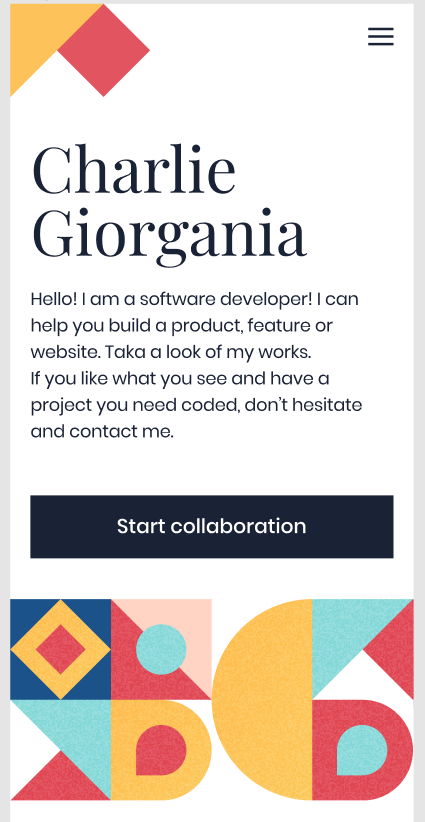
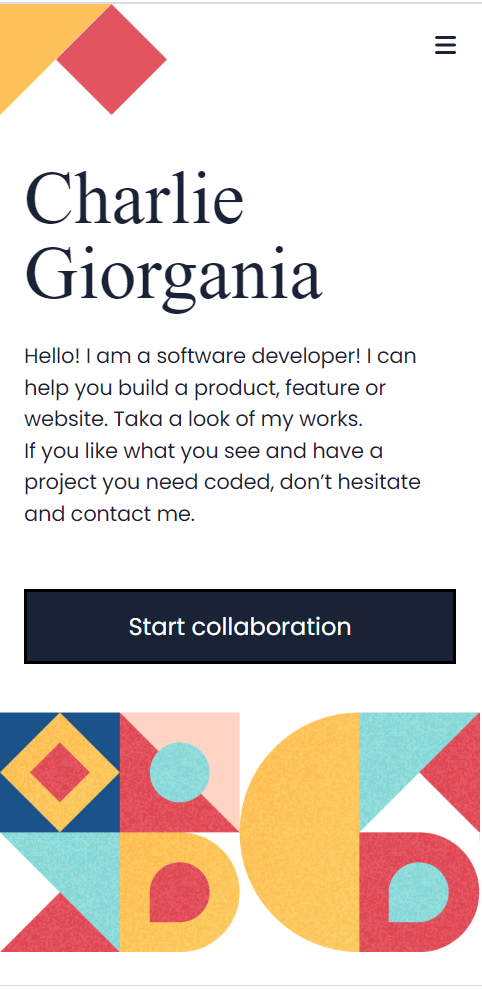
Add first seccion index.html and style.css

diff --git a/index.html b/index.html
@@ -4,10 +4,25 @@
     <meta charset="UTF-8">
     <meta http-equiv="X-UA-Compatible" content="IE=edge">
     <meta name="viewport" content="width=device-width, initial-scale=1.0">
-    <title>Document</title>
+    <title>Portfolio</title>
     <link rel="stylesheet" href="build/styles.css">
+    <link rel="stylesheet" href="https://cdnjs.cloudflare.com/ajax/libs/font-awesome/6.1.1/css/all.min.css" integrity="sha512-KfkfwYDsLkIlwQp6LFnl8zNdLGxu9YAA1QvwINks4PhcElQSvqcyVLLD9aMhXd13uQjoXtEKNosOWaZqXgel0g==" crossorigin="anonymous" referrerpolicy="no-referrer" />
+    <link href='https://fonts.googleapis.com/css?family=Poppins' rel='stylesheet'>
 </head>
 <body>
-    
+    <div class="header-section">
+        <nav class="flex-nav">
+            <i class="fa-solid fa-bars fa-1x"></i>
+        </nav>
+        <img class="image1" src="https://drive.google.com/uc?export=download&id=1fhiHuK4i6b_RFUk_QWgkLoab0P3x0kbq" alt="image-geometry-1">
+        <img class="image2" src="https://drive.google.com/uc?export=download&id=1JHldLCd04Uvwisr55uQtL_QqQrAUkhmV" alt="image-geometry-2">
+        <div class="header-container">
+            <h1>Charlie <br> Giorgania</h1>
+            <p>Hello! I am a software developer! I can help you build a product, feature or website. Taka a look of my works.
+                <br> If you like what you see and have a project you need coded, don’t hesitate and contact me.</p>
+            <button type="button">Start collaboration</button>
+        </div>
+        <img class="image3" src="https://drive.google.com/uc?export=download&id=1XupJ_UCzxSKQsUBwjQA3x7wICdzCN6DP" alt="image-geometry-3">
+    </div>
 </body>
 </html>

diff --git a/build/styles.css b/build/styles.css
@@ -1,0 +1,98 @@
+* {
+    box-sizing: border-box;
+    padding: 0;
+    margin: 0;
+}
+
+.header-section {
+    height: 672px;
+    width: 320px;
+    position: relative;
+}
+
+.header-container {
+    height: 336px;
+    width: 288px;
+}
+
+.flex-nav {
+    display: flex;
+    justify-content: flex-end;
+    width: 20px;
+    height: 14px;
+    top: 19px;
+    left: 284px;
+    color: #1A2236;
+    position: absolute;
+}
+
+h1 {
+    width: 220px;
+    height: 100px;
+    top: 104px;
+    left: 16px;
+    color: #1A2236;
+    font-family: 'Playfair Display';
+    font-style: normal;
+    font-weight: 400;
+    font-size: 50px;
+    line-height: 100%;
+    position: absolute;
+}
+
+p {
+    display: flex;  
+    width: 288px;
+    height: 126px;
+    left: 16px;
+    top: 224px;
+    font-family: 'Poppins';
+    font-style: normal;
+    font-weight: 400;
+    font-size: 14px;
+    line-height: 21px;
+    letter-spacing: -0.01em;
+    color: #1A2236;
+    position: absolute;
+}
+
+button {
+    box-sizing: border-box;
+    width: 288px;
+    height: 50px;
+    left: 16px;
+    top: 390px;
+    background: #1A2236;
+    position: absolute;
+    font-family: 'Poppins';
+    font-style: normal;
+    font-weight: 500;
+    font-size: 16px;
+    line-height: 24px;
+    text-align: center;
+    color: #FFFFFF;
+}
+
+.image1 {
+    width: 74px;
+    height: 74px;
+    left: 0px;
+    top: 0px;
+    position: absolute;
+}
+
+.image2 {
+    width: 74px;
+    height: 74px;
+    left: 37px;
+    top: 0px;
+    position: absolute;
+}
+
+.image3 {
+    width: 320px;
+    height: 160px;
+    left: 0px;
+    top: 472px;
+    position: absolute;
+}

diff --git a/css/styles.css b/css/styles.css
@@ -1,0 +1,98 @@
+* {
+    box-sizing: border-box;
+    padding: 0;
+    margin: 0;
+}
+
+.header-section {
+    height: 672px;
+    width: 320px;
+    position: relative;
+}
+
+.header-container {
+    height: 336px;
+    width: 288px;
+}
+
+.flex-nav {
+    display: flex;
+    justify-content: flex-end;
+    width: 20px;
+    height: 14px;
+    top: 19px;
+    left: 284px;
+    color: #1A2236;
+    position: absolute;
+}
+
+h1 {
+    width: 220px;
+    height: 100px;
+    top: 104px;
+    left: 16px;
+    color: #1A2236;
+    font-family: 'Playfair Display';
+    font-style: normal;
+    font-weight: 400;
+    font-size: 50px;
+    line-height: 100%;
+    position: absolute;
+}
+
+p {
+    display: flex;  
+    width: 288px;
+    height: 126px;
+    left: 16px;
+    top: 224px;
+    font-family: 'Poppins';
+    font-style: normal;
+    font-weight: 400;
+    font-size: 14px;
+    line-height: 21px;
+    letter-spacing: -0.01em;
+    color: #1A2236;
+    position: absolute;
+}
+
+button {
+    box-sizing: border-box;
+    width: 288px;
+    height: 50px;
+    left: 16px;
+    top: 390px;
+    background: #1A2236;
+    position: absolute;
+    font-family: 'Poppins';
+    font-style: normal;
+    font-weight: 500;
+    font-size: 16px;
+    line-height: 24px;
+    text-align: center;
+    color: #FFFFFF;
+}
+
+.image1 {
+    width: 74px;
+    height: 74px;
+    left: 0px;
+    top: 0px;
+    position: absolute;
+}
+
+.image2 {
+    width: 74px;
+    height: 74px;
+    left: 37px;
+    top: 0px;
+    position: absolute;
+}
+
+.image3 {
+    width: 320px;
+    height: 160px;
+    left: 0px;
+    top: 472px;
+    position: absolute;
+}

diff --git a/gulpfile.js b/gulpfile.js
@@ -1,12 +1,12 @@
 var gulp = require('gulp');
 var autoprefixer = require('gulp-autoprefixer');
 
-gulp.task('styles', function(){
+gulp.task('styles', function() {
     gulp.src('css/styles.css')
         .pipe(autoprefixer())
         .pipe(gulp.dest('build'))
 });
 
-gulp.task('watch',function(){
-    gulp.watch('css/styles.css',['styles']);
+gulp.task('watch',function() {
+    gulp.watch('css/styles.css', ['styles'])
 });
